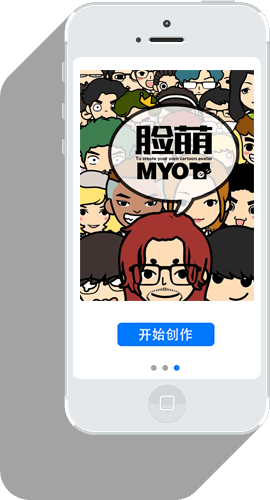
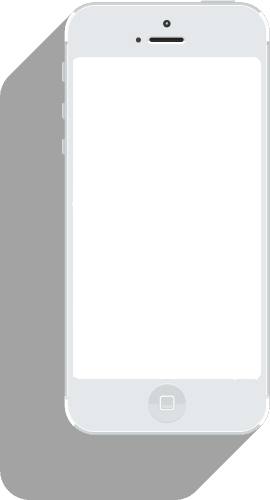
切换图片

diff --git a/index/index.html b/index/index.html
@@ -101,7 +101,22 @@
             <div id="main" class="scroll"><!--首界面部分div -->
                 <div id="productFrame">
                     <div id="leftFrame">
-                        <img id="product" src="images/phone.png" />
+                    	 <div id="carousel-def" class="carousel slide intro-main" data-ride="carousel">
+                            <div class="carousel-inner" role="listbox">    
+                            	<div class="item active">
+                                   <img class="product" src="images/page4.png" />
+                                </div>           
+                                <div class="item ">
+                                   <img class="product" src="images/page1.png" />
+                                </div>
+                                <div class="item ">
+                                   <img class="product" src="images/page2.png" />
+                                </div>
+                                <div class="item ">
+                                    <img class="product" src="images/productFrame.png" />
+                                </div>
+                            </div>
+                        </div>
                     </div>
                     <div id="rightFrame">
                         <div id="content">

diff --git a/index/css/tonghang.css b/index/css/tonghang.css
@@ -190,18 +190,35 @@
 		}
 		#leftFrame{
 			float:left;
-			height:450px;
+			height:500px;
 			width:350px;
 			margin-bottom:0px;
-			margin-top:50px;
-			margin-left:-120px;
+			margin-top:100px;
+			margin-left:120px;
 			position:relative;
+			background:url("../images/phone.png") no-repeat;
 		}
-		#product{
-			margin-top:75px;
-			margin-left:300px;;
-			width:280px;
-			height:500px;
+		#carousel-def{
+			margin-left:72px;
+			margin-top:55px;
+			width:195px;
+			height:300px;
+		}
+		.carousel-inner{
+			width:192px;
+			height:335px;
+		}
+		.item{
+			margin-top:0px;
+			width:190px;
+			height:300px;
+		}
+		.product{
+			border-radius:5px;
+			margin-top:0px;
+			margin-left:0px;;
+			width:190px;
+			height:300px;
 		}
 		#rightFrame{
 			float:right;
